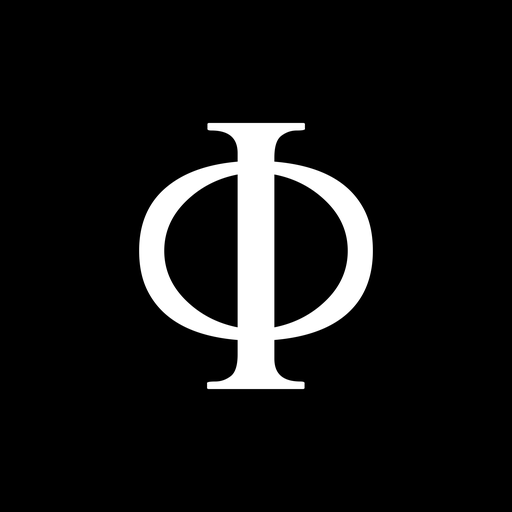
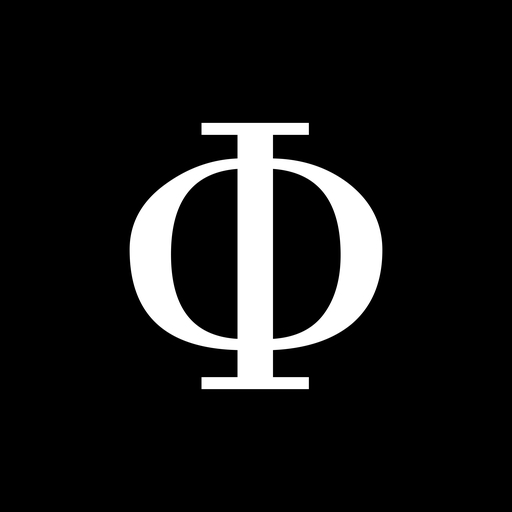
A marca passa a ser GFS Didot: barra do topo e logotipo
Φ (biblioteca) e Ξ (sumário) deixam a Cardo, cujo bojo é estreito e
ovalado, e passam para a GFS Didot -- a didone grega da Greek Font
Society, desenhada por Takis Katsoulidis e George D. Matthiopoulos. É a
fonte certa para a marca de um acervo clássico: gregos desenhando grego.

O MESMO desenho nos dois lugares, que era o ponto: o Φ do ícone do app é
agora o mesmo Φ da barra do topo, e não uma aproximação de outra fonte.

Duas decisões de licença, porque o repositório é público:

1. SUBCONJUNTO DE DOIS GLIFOS. A família inteira pesa 175 KB; Φ e Ξ
   pesam 1 KB. O app é offline-first e carrega tudo no primeiro acesso --
   174 KB para desenhar duas letras seria desperdício.

2. NOME TROCADO, e isto é obrigatório. "GFS Didot" é Reserved Font Name
   na OFL 1.1, e recortar uma fonte é modificá-la: versão modificada não
   pode carregar o nome reservado. A família embarcada se chama "Marca
   Angular", com a origem declarada no próprio arquivo e a licença em
   public/fonts/MarcaAngular-GFSDidot-OFL.txt, ao lado, como já é a
   convenção da Cardo e da Atkinson.

A Cardo fica de reserva no stack: se a marca não carregar, o grego ainda
sai grego em vez de um retângulo vazio.

Icones refeitos com a mesma fonte, centrados pela tinta (desvio 0,0), e o
mascarável continua em arquivo próprio -- com a Didot o Φ cheio dá 86% de
diagonal, ainda mais longe do limite de 80% do recorte do Android.

diff --git a/src/styles.css b/src/styles.css
@@ -544,11 +544,31 @@ button {
 
 /* Φ — a marca do app (filosofia, filologia, filantropia), sempre em
    cena e clicável: abre a biblioteca */
+/* A MARCA: Φ (biblioteca) e Ξ (sumário).
+
+   Subconjunto de DOIS GLIFOS da GFS Didot, a didone grega da Greek Font
+   Society — desenhada por gregos para o grego, que é a fonte certa para a
+   marca de um acervo clássico. Dois glifos custam 1 KB; a família inteira
+   custaria 175.
+
+   O NOME É OUTRO DE PROPÓSITO. "GFS Didot" é Reserved Font Name na OFL, e
+   recortar uma fonte é modificá-la — versão modificada não pode carregar o
+   nome reservado. Licença e crédito ficam em MarcaAngular-GFSDidot-OFL.txt,
+   ao lado do arquivo. */
+@font-face {
+  font-family: 'Marca Angular';
+  font-style: normal;
+  font-weight: 400;
+  font-display: block;
+  src: url('/fonts/marca-angular.woff2') format('woff2');
+}
+
 .phi-button {
   /* Φ e Ξ são a marca do app e são LETRAS GREGAS: desenhá-las com a fonte do
      aparelho fazia a marca mudar de forma entre o computador e o celular.
-     Cardo tem o grego inteiro (NORMAS.md N72). */
-  font-family: 'Cardo', serif;
+     A Cardo fica de reserva — se a marca não carregar, o grego ainda sai
+     grego, e não um retângulo vazio. */
+  font-family: 'Marca Angular', 'Cardo', serif;
   font-weight: bold;
   font-size: 1.5rem;
   color: var(--color-accent);
